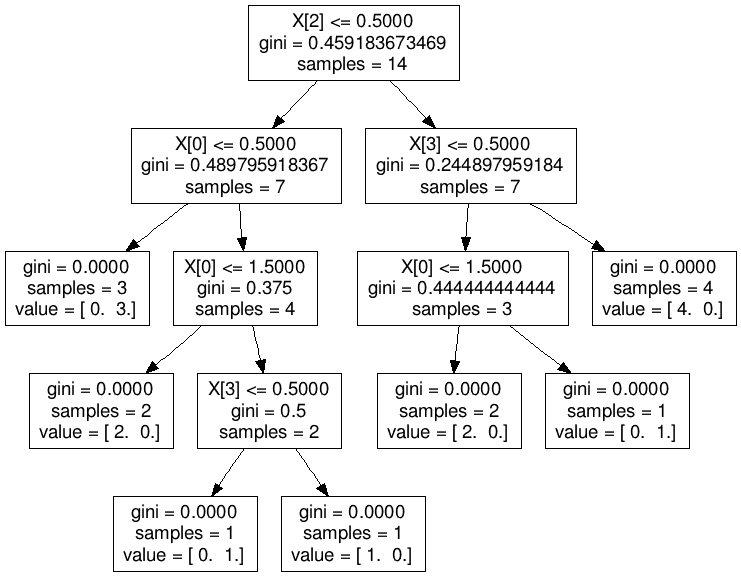
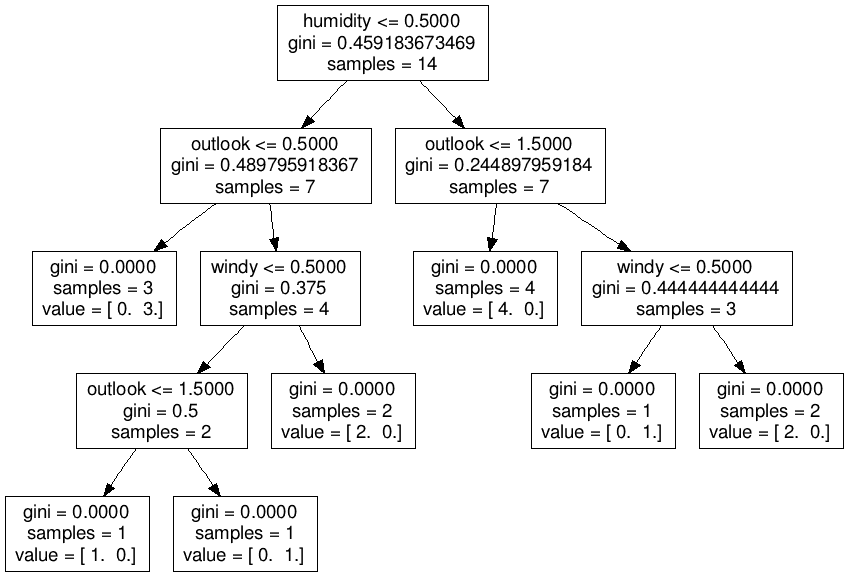
Add new feature show label in dot file

diff --git a/decisionTree/buildtree.py b/decisionTree/buildtree.py
@@ -107,8 +107,17 @@ class tree_builder:
         self.attr[attr_set[0]] = attr_dict
         self.attr_order += 1
 
+    def build_attr_index(self):   
+        r = [None] * len(self.attr)
+        for key in self.attr:
+            r[self.attr[key]['order']] = key
+
+        return r
+
     def build_polt(self):
-        tree.export_graphviz(self.tree, self.dot_data)
+        tree.export_graphviz(self.tree, self.dot_data,
+                             self.build_attr_index())
+
     def plot_pdf(self, path):
         self.build_polt()
         graph = pydot.graph_from_dot_data(self.dot_data.getvalue())
